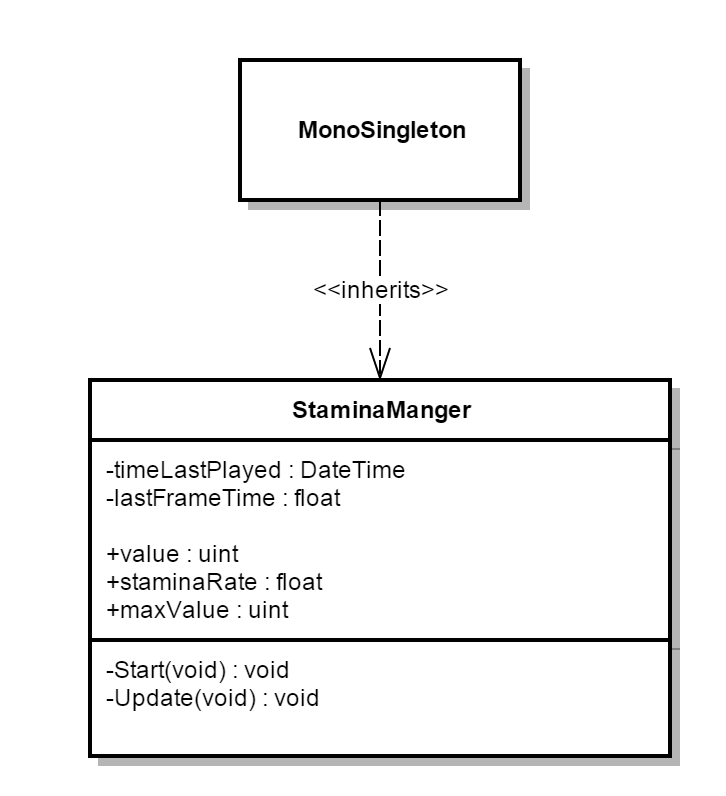
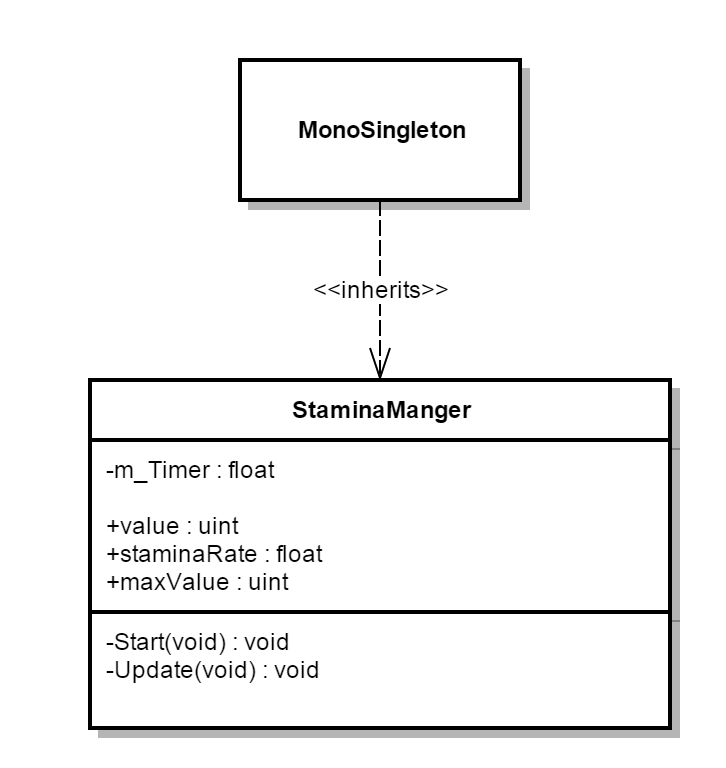
Flaw found
Flaw: when player goes from maxValue and uses some value, timer for when
he gets back more to value is not correct.

Solution: Only have the timer update when the value is less than the
maxValue.

diff --git a/Assets/Scripts/StaminaManager.cs b/Assets/Scripts/StaminaManager.cs
@@ -1,6 +1,4 @@
 using System;
-using System.Collections;
-using System.Globalization;
 using Library;
 
 using UnityEngine;
@@ -17,25 +15,28 @@ public class StaminaManager : MonoSingleton<StaminaManager>
     public uint maxValue;
     public float staminaRate;
 
-    [SerializeField]
-    private DateTime m_TimeLastPlayed;
-    private float m_LastFrameTime;
+    private float m_Timer;
 
 	public void Start()
 	{
-	    var playerStaminaInfo = GameManager.self.playerData.staminaInformation;
+	    var playerStaminaInfo = GameManager.self.playerData.staminaInformation; // Get the Stamina Info
 
-	    value = playerStaminaInfo.value;
+	    value = playerStaminaInfo.value;    // Set value to StaminaInfo value
 
-        m_TimeLastPlayed = DateTime.Parse(playerStaminaInfo.timeLastPlayed);
-        var ts = DateTime.Now - m_TimeLastPlayed;
+        var timeLastPlayed = DateTime.Parse(playerStaminaInfo.timeLastPlayed);   // Get Last Time the app was open 
+        var ts = DateTime.Now - timeLastPlayed; // Calculate the time span
         var secondsPassed = 0;
+
+        // Convert it all to Seconds
         secondsPassed += ts.Days * 86164;
         secondsPassed += ts.Hours * 3600;
         secondsPassed += ts.Minutes * 60;
         secondsPassed += ts.Seconds;
 
+        // Add the time that was passed
         value += (uint)(secondsPassed / staminaRate);
+
+        // Limit the value
 	    if (value > maxValue)
 	    {
 	        value = maxValue;
@@ -44,11 +45,18 @@ public class StaminaManager : MonoSingleton<StaminaManager>
 
 	private void Update()
 	{
-	    var currentTime = Time.time%staminaRate;
-	    if (currentTime < m_LastFrameTime && value < maxValue)
+        // If value is at maxValue, don't allow to add time
+        if (value >= maxValue)
 	    {
-	        value++;
-	    }
-	    m_LastFrameTime = currentTime;
-    }
+            m_Timer = staminaRate;
+            return;
+        }
+
+        m_Timer -= Time.deltaTime;
+	    if (!(m_Timer <= 0))  // As long as timer isn't less than or equal to 0, stop process here
+            return;
+
+	    value++;
+        m_Timer = staminaRate;
+	}
 }
